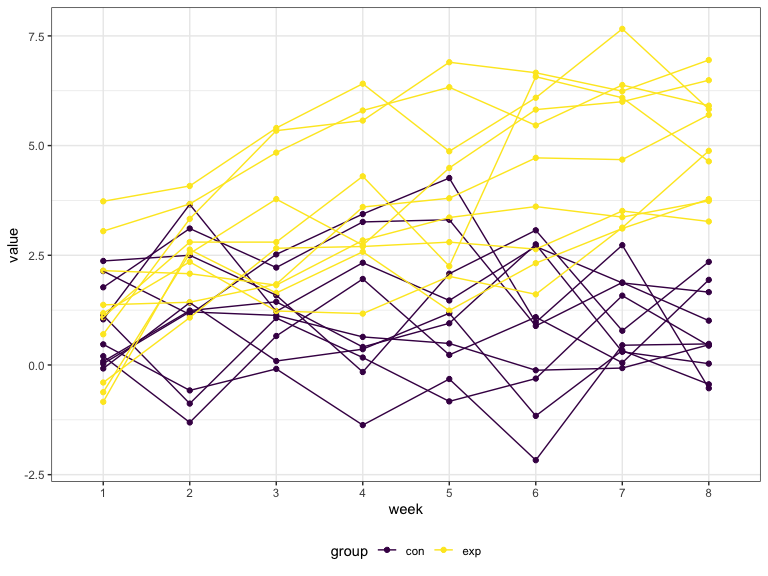
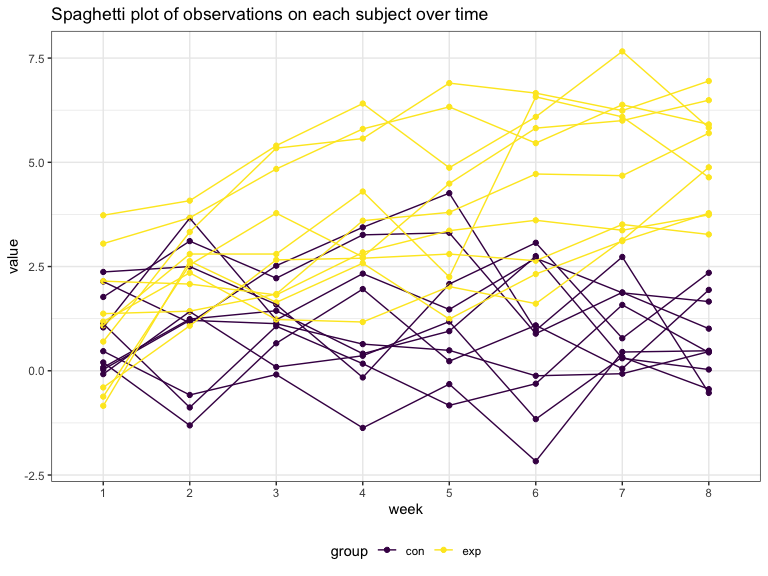
Problem 2: comment

diff --git a/p8105_hw5_gl2677.md b/p8105_hw5_gl2677.md
@@ -120,7 +120,14 @@ df =
 df %>% 
   ggplot(aes(x = week, y = value, color = group)) + 
   geom_point() + 
-  geom_line(aes(group = file_names))
+  geom_line(aes(group = file_names)) +
+  labs(title = "Spaghetti plot of observations on each subject over time")
 ```
 
 <img src="p8105_hw5_gl2677_files/figure-gfm/unnamed-chunk-2-1.png" width="90%" />
+
+  - The value in control group fluctuates bewteen 4.26 and -2.17 over
+    eight weeks.
+
+  - The value in experiment group gradually increases over eight weeks.
+    The mean value increases from 1.141in week 1 to 5.119 in week 8.
